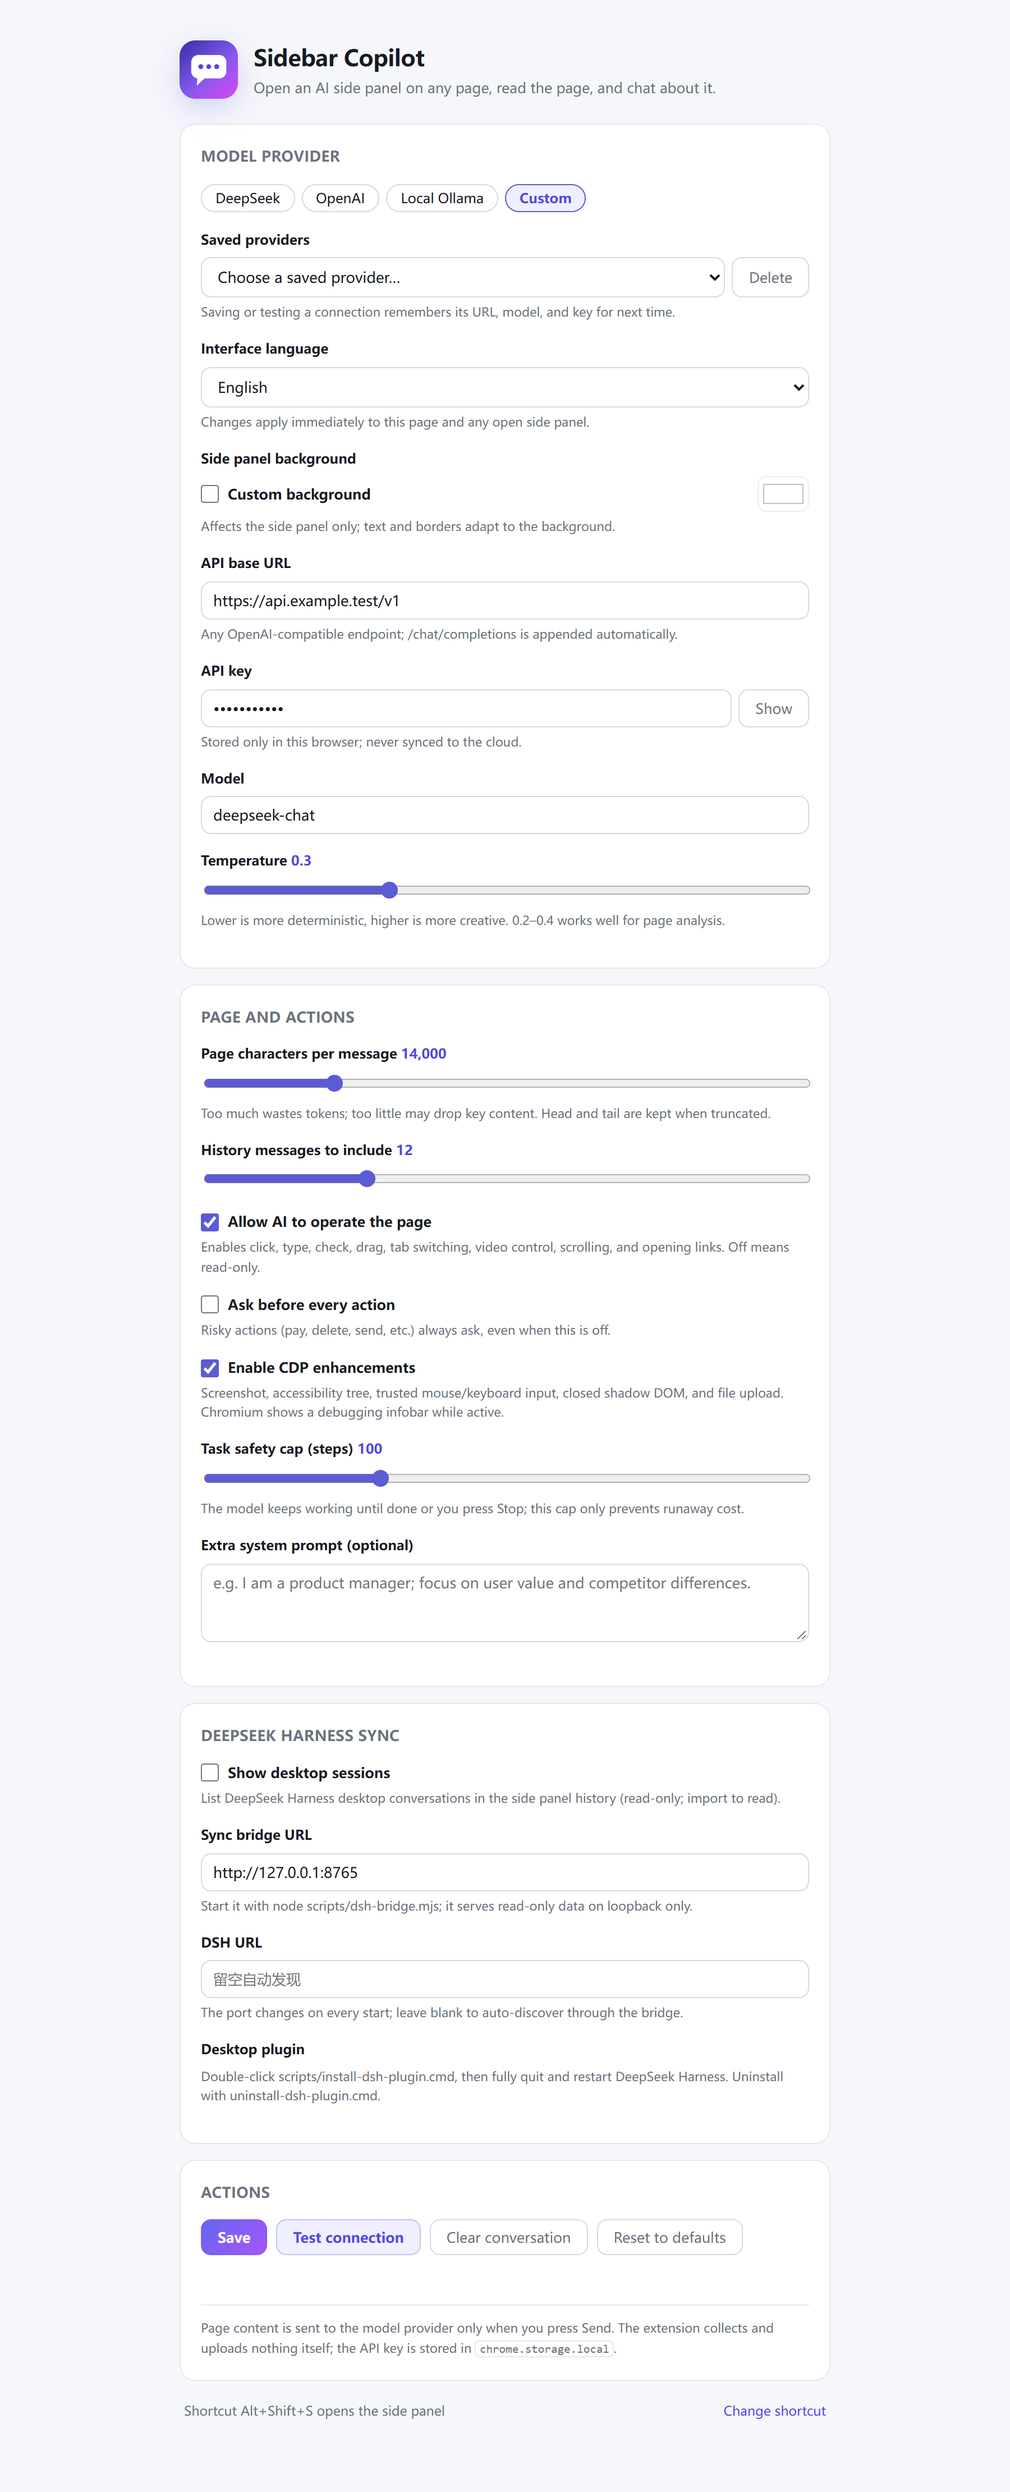
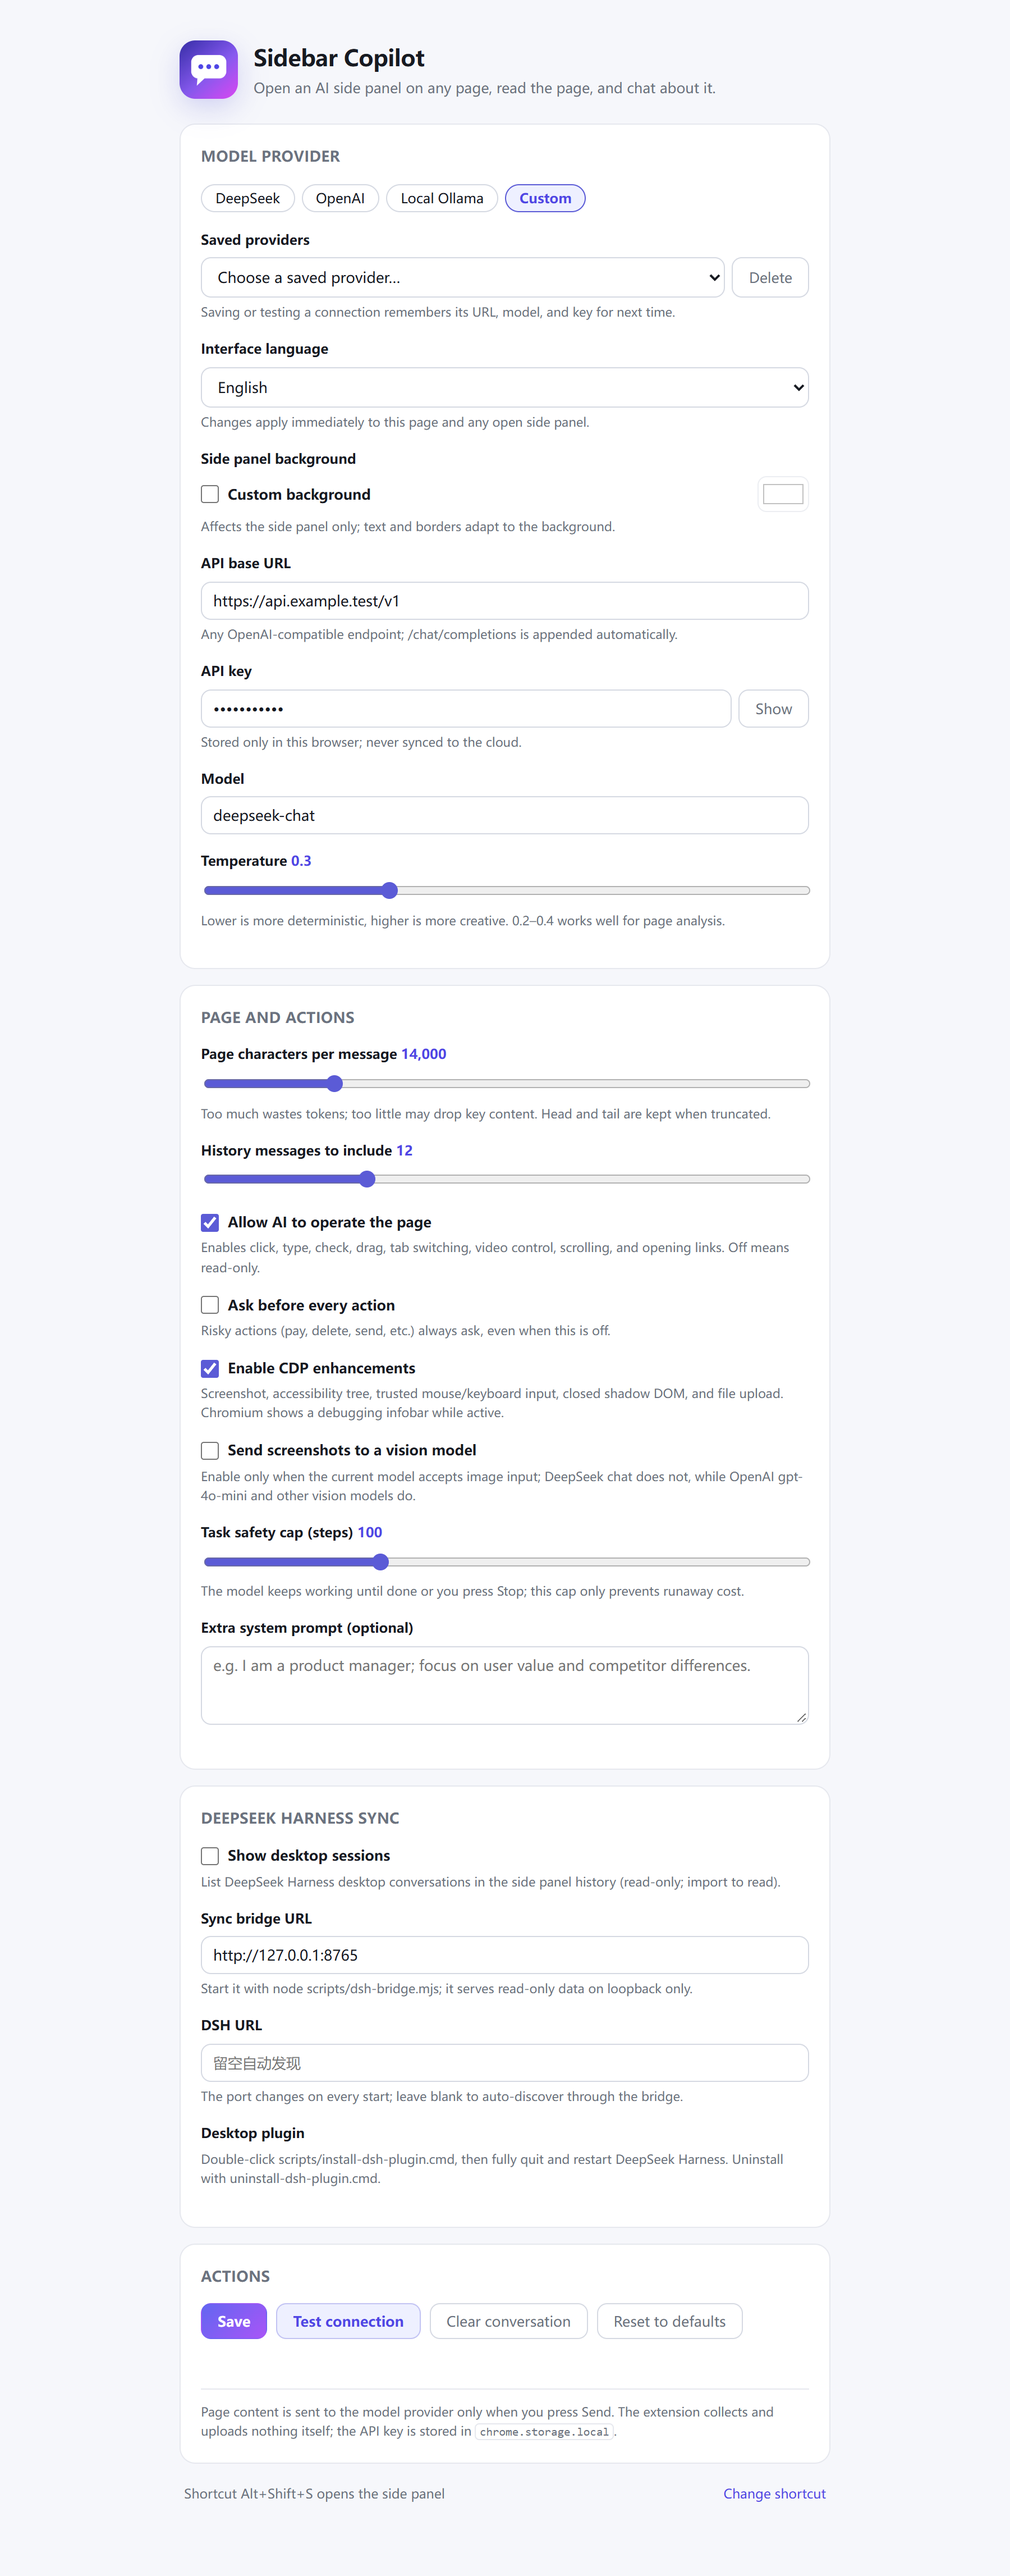
feat: optional vision screenshots and CDP metadata

diff --git a/panel.js b/panel.js
@@ -89,6 +89,7 @@ const state = {
   historyOpen: false,
   documentId: '',
   snapshotId: '',
+  pendingScreenshot: '',
 };
 
 /* ------------------------------------------------------------------ */
@@ -693,6 +694,17 @@ async function runAgent() {
         pushToolResult(action);
       }
 
+      if (state.pendingScreenshot && state.settings.sendScreenshot) {
+        state.apiMessages.push({
+          role: 'user',
+          content: [
+            { type: 'text', text: 'Current tab screenshot (visual context for this task):' },
+            { type: 'image_url', image_url: { url: state.pendingScreenshot } },
+          ],
+        });
+      }
+      state.pendingScreenshot = '';
+
       if (controller.signal.aborted) {
         assistant.stopped = true;
         assistant.streaming = false;
@@ -723,6 +735,7 @@ async function runAgent() {
         updateMessage(lastAssistant, state.messages.indexOf(lastAssistant));
       }
       state.controller = null;
+      state.pendingScreenshot = '';
       setBusy(false);
       setStatus();
       persist();
@@ -913,11 +926,14 @@ async function executeCdpTool(action) {
 
   if (action.name === 'capture_screenshot') {
     const screenshot = await cdp.captureScreenshot(tabId);
+    state.pendingScreenshot = state.settings.sendScreenshot ? screenshot : '';
     return {
       ok: true,
       screenshot,
       verified: true,
-      note: 'Screenshot captured for visual inspection; it is shown in the side panel.',
+      note: state.settings.sendScreenshot
+        ? 'Screenshot captured and queued for the next visual-model request.'
+        : 'Screenshot captured for visual inspection; it is shown in the side panel.',
     };
   }
 

diff --git a/lib/i18n.js b/lib/i18n.js
@@ -152,6 +152,8 @@ const MESSAGES = {
     'options.confirmActionsHint': '支付、删除、发送等危险动作，无论是否勾选都会先询问。',
     'options.useCdp': '启用 CDP 增强',
     'options.useCdpHint': '截图、无障碍树、真实鼠标/键盘输入、关闭 Shadow DOM 和文件上传。运行时浏览器会显示“正在调试”提示。',
+    'options.sendScreenshot': '把截图发送给视觉模型',
+    'options.sendScreenshotHint': '仅当当前模型支持图片输入时开启；DeepSeek chat 不支持，OpenAI gpt-4o-mini 等视觉模型支持。',
     'options.maxSteps': '任务安全上限（步）',
     'options.maxStepsHint': '模型会持续执行直到完成或你点停止；这是防止失控的成本上限，不是任务次数限制。',
     'options.extra': '额外系统提示（可选）',
@@ -362,6 +364,8 @@ const MESSAGES = {
     'options.confirmActionsHint': 'Risky actions (pay, delete, send, etc.) always ask, even when this is off.',
     'options.useCdp': 'Enable CDP enhancements',
     'options.useCdpHint': 'Screenshot, accessibility tree, trusted mouse/keyboard input, closed shadow DOM, and file upload. Chromium shows a debugging infobar while active.',
+    'options.sendScreenshot': 'Send screenshots to a vision model',
+    'options.sendScreenshotHint': 'Enable only when the current model accepts image input; DeepSeek chat does not, while OpenAI gpt-4o-mini and other vision models do.',
     'options.maxSteps': 'Task safety cap (steps)',
     'options.maxStepsHint': 'The model keeps working until done or you press Stop; this cap only prevents runaway cost.',
     'options.extra': 'Extra system prompt (optional)',

diff --git a/options.js b/options.js
@@ -22,6 +22,7 @@ const el = {
   allowPageActions: document.getElementById('allowPageActions'),
   confirmActions: document.getElementById('confirmActions'),
   useCdp: document.getElementById('useCdp'),
+  sendScreenshot: document.getElementById('sendScreenshot'),
   maxAgentSteps: document.getElementById('maxAgentSteps'),
   maxStepsLabel: document.getElementById('maxStepsLabel'),
   dshSync: document.getElementById('dshSync'),
@@ -73,6 +74,7 @@ function fillForm(values) {
   el.allowPageActions.checked = values.allowPageActions !== false;
   el.confirmActions.checked = Boolean(values.confirmActions);
   el.useCdp.checked = values.useCdp !== false;
+  el.sendScreenshot.checked = Boolean(values.sendScreenshot);
   el.maxAgentSteps.value = String(values.maxAgentSteps ?? 100);
   el.maxStepsLabel.textContent = String(values.maxAgentSteps ?? 100);
   el.dshSync.checked = Boolean(values.dshSync);
@@ -275,6 +277,7 @@ function bind() {
       panelBg: settings.panelBg,
       saveHistory: settings.saveHistory,
       useCdp: settings.useCdp,
+      sendScreenshot: settings.sendScreenshot,
       dshSync: settings.dshSync,
       dshBridgeUrl: settings.dshBridgeUrl,
       dshServerUrl: settings.dshServerUrl,
@@ -305,6 +308,7 @@ function readForm() {
     allowPageActions: el.allowPageActions.checked,
     confirmActions: el.confirmActions.checked,
     useCdp: el.useCdp.checked,
+    sendScreenshot: el.sendScreenshot.checked,
     maxAgentSteps: Math.max(20, Math.min(300, Number(el.maxAgentSteps.value) || 100)),
     systemExtra: el.systemExtra.value.trim(),
     locale: el.locale.value,

diff --git a/options.html b/options.html
@@ -117,6 +117,14 @@
         </div>
 
         <div class="field">
+          <label class="check">
+            <input id="sendScreenshot" type="checkbox" />
+            <span data-i18n="options.sendScreenshot">把截图发送给视觉模型</span>
+          </label>
+          <small data-i18n="options.sendScreenshotHint">仅当当前模型支持图片输入时开启；DeepSeek chat 不支持，OpenAI gpt-4o-mini 等视觉模型支持。</small>
+        </div>
+
+        <div class="field">
           <span><span data-i18n="options.maxSteps">任务安全上限（步）</span> <b id="maxStepsLabel">100</b></span>
           <input id="maxAgentSteps" type="range" min="20" max="300" step="10" />
           <small data-i18n="options.maxStepsHint">模型会持续执行直到完成或你点停止；这是防止失控的成本上限，不是任务次数限制。</small>

diff --git a/content.js b/content.js
@@ -5,7 +5,7 @@
 (() => {
   'use strict';
 
-  const VERSION = '2.1.0';
+  const VERSION = '2.1.1';
   if (window.__SC_EXTRACT__ && window.__SC_EXTRACT_VERSION__ === VERSION) return;
   window.__SC_EXTRACT_VERSION__ = VERSION;
 

diff --git a/lib/settings.js b/lib/settings.js
@@ -10,6 +10,7 @@ export const DEFAULT_SETTINGS = Object.freeze({
   allowPageActions: true,
   confirmActions: false,
   useCdp: true,
+  sendScreenshot: false,
   maxAgentSteps: 100,
   locale: 'auto',
   panelBg: '',

diff --git a/README.en.md b/README.en.md
@@ -17,6 +17,7 @@ An Edge / Chrome side panel extension that opens an AI chat panel beside any web
 - **Continuous tasks and skills**: no six-step stop; the model keeps going until done or you press Stop, with form / media / extract / navigate / verify / inspect playbooks.
 - **Verified actions**: input, select, range, media, and scroll read the state back; results are Done / Uncertain / Failed and bound to `tabId + documentId + snapshotId`.
 - **Optional CDP enhancements**: `chrome.debugger` provides screenshots, the full accessibility tree, trusted mouse/keyboard input, closed-shadow node clicks, and file inputs from absolute paths.
+- **Optional vision**: with “Send screenshots to a vision model” enabled, `capture_screenshot` attaches the image to the next request; DeepSeek chat does not accept images, while OpenAI gpt-4o-mini and other vision models do.
 - **Two-way desktop sync**: list DeepSeek Harness sessions read-only; after installing the desktop plugin, write extension conversations as real DSH sessions visible on both sides.
 - **Conversation history**: every new chat is kept. The clock button lists them; switch, delete, or export to JSON on your computer. Auto-save can be turned off.
 - **Remembered providers**: saving or testing a connection remembers its URL, model, and key for the “Saved providers” dropdown; “Reset to defaults” never deletes your key.
@@ -160,7 +161,7 @@ With actions enabled, the model doesn't just tell you what to click — it execu
 | `hover` | Hovers to open menus or tooltips |
 | `tab_control` | Lists, opens, activates, reloads, goes back/forward, or closes tabs; closing the panel’s own tab is refused |
 | `skill` | Loads a playbook for form / media / extract / navigate / verify / inspect |
-| `capture_screenshot` | Captures the visible tab over CDP and shows it in the panel |
+| `capture_screenshot` | Captures the visible tab over CDP and shows it in the panel; optionally sends it to a vision model |
 | `inspect_ax` | Reads the accessibility tree (iframes and closed shadow DOM included) and returns `backend_node_id` |
 | `cdp_click` / `cdp_type` / `cdp_key` | Trusted CDP mouse, text, and key input for controls that ignore synthetic events |
 | `cdp_upload` | Sets a file input from absolute paths you provide and confirm |
@@ -225,6 +226,7 @@ It returns real state (currentTime, duration, paused, volume, readyState), plus 
 - Custom dropdowns (`role=combobox`) take two steps (“click, then click the option”); native `<select>` works in one.
 - `ref`s expire when the page re-renders or navigates; the model re-runs `inspect_page`.
 - CDP enhancements must be enabled in Settings; Chromium shows a “started debugging” infobar while attached. Cross-origin iframes are supported at the accessibility-tree/coordinate level, not every iframe DOM query; file upload needs absolute paths.
+- To let the model see the screenshot, use a vision-capable model and enable “Send screenshots to a vision model”; DeepSeek chat is not a vision model.
 - Browser chrome (address bar, extension manager, PDF viewer) still cannot be operated; that is a Chromium permission boundary that CDP does not bypass.
 
 ## How it works
@@ -328,7 +330,7 @@ sidebar-copilot/
 
 **The model says it cannot read the page**: it's an internal page/PDF, or injection is blocked; try a regular page.
 
-**On a new tab it says “I have no browser control”**: `edge://newtab` is a browser-internal page that no extension can inject into. Open a real page (http/https) and refresh once; if it still happens, make sure the extension was reloaded to v2.1.
+**On a new tab it says “I have no browser control”**: `edge://newtab` is a browser-internal page that no extension can inject into. Open a real page (http/https) and refresh once; if it still happens, make sure the extension was reloaded to v2.1.1.
 
 **It can't see the video**: it truly cannot see pixels, but `control_media` can play/pause/seek/volume, and it can open captions, notes, or AI-summary panels and read the text. Describing the picture requires an image-capable model.
 

diff --git a/README.md b/README.md
@@ -17,6 +17,7 @@
 - **持续任务与技能**：不再 6 步就停，模型持续执行到完成或你点停止；内置 form / media / extract / navigate / verify / inspect 分步技能。
 - **动作可验证**：每次输入/选择/滑块/媒体/滚动都会读回实际状态，结果标为「完成 / 待确认 / 失败」；目标绑定 `tabId + documentId + snapshotId`。
 - **CDP 增强（可选）**：`chrome.debugger` 提供截图、完整无障碍树、真实鼠标/键盘输入、关闭 Shadow DOM 节点点击，以及按绝对路径设置文件输入。
+- **视觉截图（可选）**：开启「把截图发送给视觉模型」后，`capture_screenshot` 会把图片作为下一条消息发给支持图片输入的模型；DeepSeek chat 不支持，OpenAI gpt-4o-mini 等视觉模型支持。
 - **桌面端双向同步**：只读列出 DeepSeek Harness 会话；安装桌面端插件后，可把扩展会话写成 DSH 的合法 session，双向可见。
 - **多会话历史**：每次新对话都会保留，顶部时钟按钮打开列表，可切换、删除或导出为 JSON 存到本地；自动保存可以关掉。
 - **供应商记忆**：保存或测试连接会记住地址、模型和 Key，下次从「已保存的供应商」下拉框直接选；「恢复默认」不会删除 Key。
@@ -160,7 +161,7 @@ node scripts/install-dsh-plugin.mjs --uninstall
 | `hover` | 悬停展开菜单/提示 |
 | `tab_control` | 列出、新建、切换、刷新、前进/后退标签页；关闭当前侧边栏所在标签页会被拒绝 |
 | `skill` | 加载 form / media / extract / navigate / verify / inspect 分步操作手册 |
-| `capture_screenshot` | CDP 截取当前可见画面，侧边栏直接显示图片 |
+| `capture_screenshot` | CDP 截取当前可见画面，侧边栏直接显示图片；开启视觉截图后也会发给支持图片的模型 |
 | `inspect_ax` | 读取浏览器无障碍树（含 iframe / 关闭 Shadow DOM），返回 `backend_node_id` |
 | `cdp_click` / `cdp_type` / `cdp_key` | 用 CDP 发真实鼠标、文本、按键；适合 DOM 合成事件无效的控件 |
 | `cdp_upload` | 用绝对路径设置文件输入；需要你提供路径并在确认框里允许 |
@@ -225,6 +226,7 @@ node scripts/install-dsh-plugin.mjs --uninstall
 - 自定义下拉框（`role=combobox`）需要模型改用「点击 + 点选项」两步；原生 `<select>` 一步完成。
 - 页面重新渲染后旧 `ref` 会失效，模型会重新 `inspect_page`。
 - CDP 增强需要在设置里开启；首次附加会显示“正在调试”提示。跨域 iframe 只能做到无障碍树/坐标级操作，不保证所有 iframe DOM 可直接查询；文件上传需要你提供绝对路径。
+- 模型要“直接看图”，必须使用支持图片输入的模型，并在设置里开启「把截图发送给视觉模型」；DeepSeek chat 不是视觉模型。
 - 浏览器地址栏、扩展管理页、PDF 阅读器等浏览器 UI 仍无法操作；这是 Chromium 的权限边界，CDP 也不能绕过。
 
 ## 工作原理
@@ -328,7 +330,7 @@ sidebar-copilot/
 
 **模型说读不到页面**：当前页是浏览器内部页/PDF，或注入被站点拦截；换普通网页再试。
 
-**在新建标签页上它说“我没有控制权”**：`edge://newtab` 属于浏览器内部页面，任何扩展都无法注入。先打开真实网页（http/https），必要时刷新一次；如果还不行，确认扩展已重新加载到 v2.1。
+**在新建标签页上它说“我没有控制权”**：`edge://newtab` 属于浏览器内部页面，任何扩展都无法注入。先打开真实网页（http/https），必要时刷新一次；如果还不行，确认扩展已重新加载到 v2.1.1。
 
 **视频读不到画面**：它确实看不到视频像素，但可以 `control_media` 播放/暂停/跳进度/调音量，也可以点开字幕、笔记、AI 总结面板再读文本。要让它直接描述画面，需要支持图片输入的模型。
 
